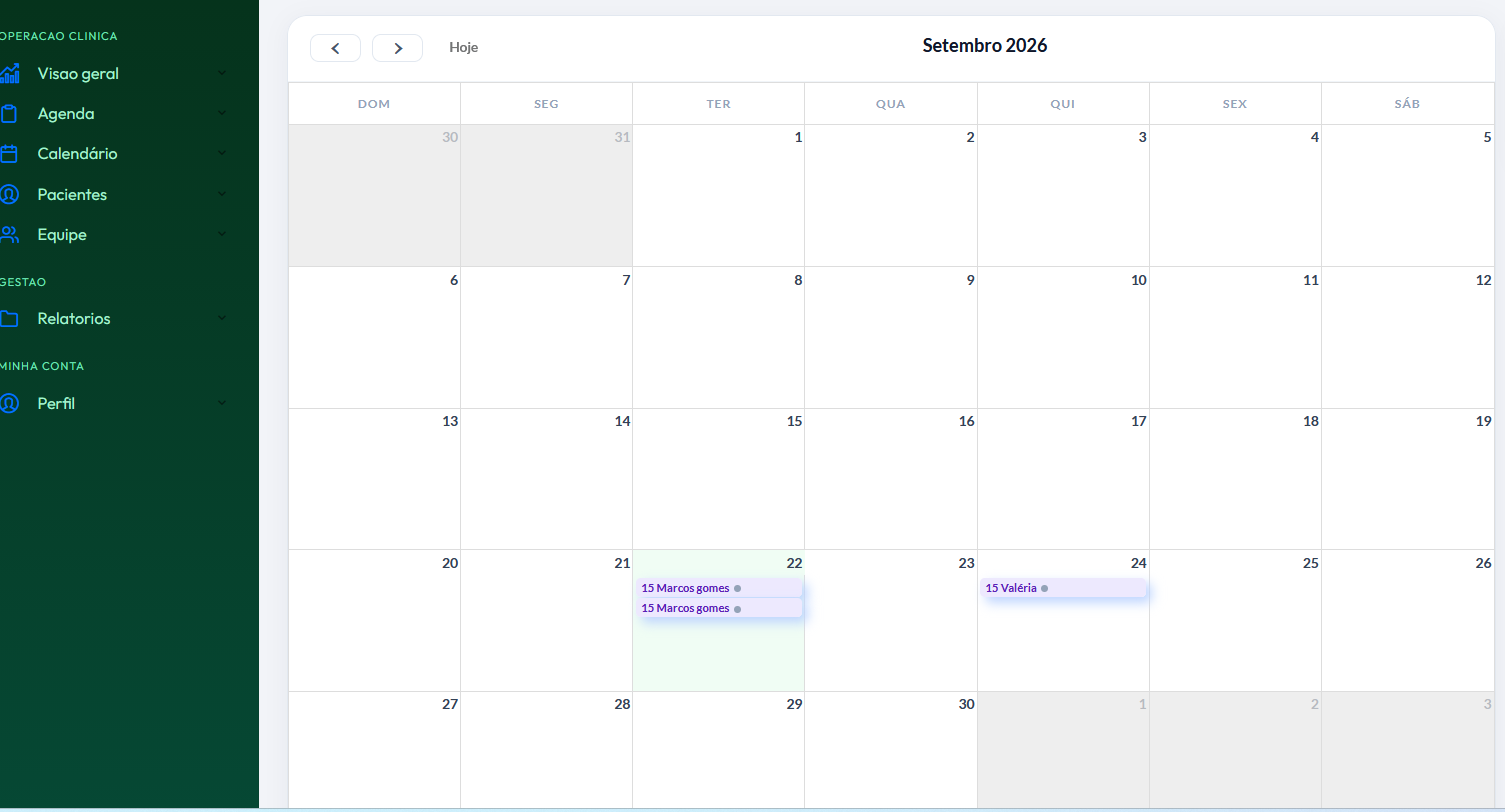
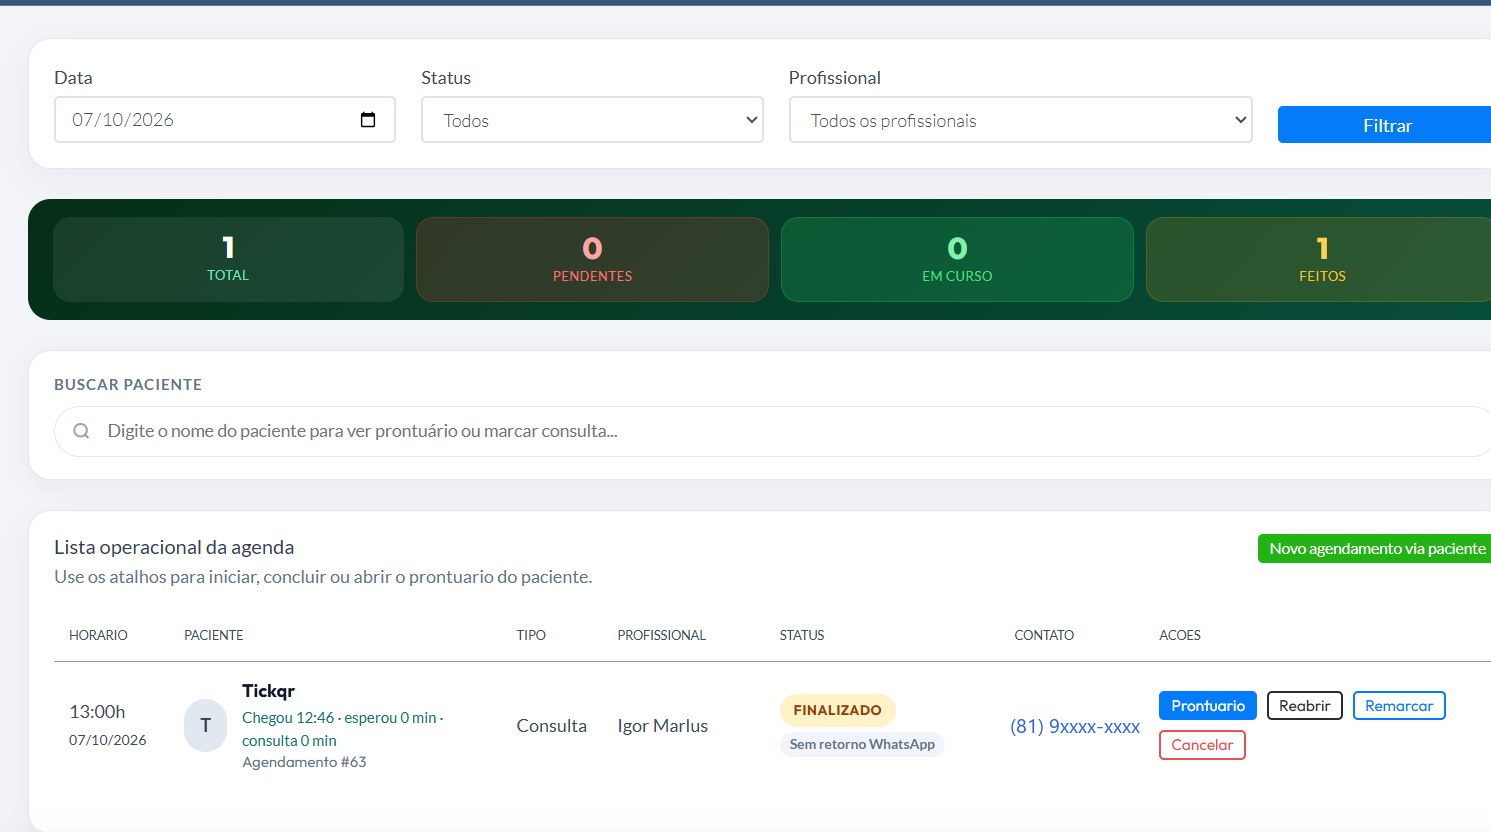
docs(manual): prints da lista de espera, agenda e prontuario atualizados

diff --git a/application/libraries/Manual_conteudo.php b/application/libraries/Manual_conteudo.php
@@ -162,7 +162,7 @@ class Manual_conteudo {
                     3 => array('Recebe os avisos das vagas da sua própria agenda.'),
                     4 => array('Recebe os avisos de vaga da clínica e costuma ser quem faz o encaixe.'),
                 ),
-                'print' => null,
+                'print' => 'lista-espera.png',
                 'atualizado_em' => '2026-10-07',
             ),
             array(

diff --git a/tests/manual_conteudo_test.php b/tests/manual_conteudo_test.php
@@ -96,6 +96,6 @@ assertSameValue(
 $le = null;
 foreach ($nivel4 as $capitulo) { if ($capitulo['slug'] === 'lista-espera') { $le = $capitulo; } }
 assertTrue($le !== null, 'Colaborador (nivel 4) deve ver o capitulo lista-espera.');
-assertSameValue(null, $le['print'], 'Capitulo lista-espera ainda sem print.');
+assertSameValue('lista-espera.png', $le['print'], 'Print do capitulo lista-espera.');
 
 echo "OK\n";

diff --git a/CLAUDE.md b/CLAUDE.md
@@ -611,7 +611,7 @@ Para novas migrações: adicionar método em `Dev.php`, proteger com `nivel == 1
 - [x] Exportar prontuário por paciente (PDF/CSV/XLSX) com período e auditoria — helper `prontuario_export_helper.php`, `Xlsx_simples`, `Prontuario_export_model`. Deploy 2026-10-03: 8 arquivos runtime por FTP, `adm/dev/migrar_prontuario_exportacoes` executada e teste online OK (níveis 3/4). Nota: antes do deploy a view nova já estava no servidor sem o helper (prontuário quebrado em produção) — origem do upload não identificada; ao subir view que depende de helper novo, conferir o servidor antes.
 - [x] Ficha do paciente (pessoal/responsável, saúde básica, convênio) com alergias em destaque no prontuário (`ficha_paciente_helper.php`, `Ficha_paciente_model`). Entrega B (campos configuráveis por clínica) pendente.
 - [x] Tempo de espera: check-in na agenda, horários de início/fim, espera/atraso/duração por atendimento e médias em Relatórios clínicos (`tempo_atendimento_helper.php`)
-- [x] Lista de espera / encaixe: registro de quem quer um horário antes, aviso de vaga no sino quando uma consulta futura é cancelada ou remarcada (agenda, WhatsApp, chatbot) e encaixe com agendamento preenchido — `Lista_espera_model`, `Lista_espera_vagas`, `adm/lista_espera` (ver 7.8). Spec/plano: `docs/superpowers/specs/2026-10-07-lista-espera-design.md`, `docs/superpowers/plans/2026-10-07-lista-espera.md`; texto de negócio: `docs/produto/2026-10-07-lista-espera-como-funciona.md`. Deploy 2026-10-07: código em produção (`956245c`); a extensão FTP Sync tinha subido sozinha 14 dos arquivos mas não model/library/controller/views — o prontuário ficou ~3h dependendo de um model ausente (sem erro registrado no log), corrigido subindo os 5 arquivos e apagando o *arquivo* vazio `application/views/adm/lista_espera`. Migração `adm/dev/migrar_lista_espera` executada e teste online OK em 2026-10-07. **Pendente:** smoke test de cancelamento → aviso → encaixe; prints do manual
+- [x] Lista de espera / encaixe: registro de quem quer um horário antes, aviso de vaga no sino quando uma consulta futura é cancelada ou remarcada (agenda, WhatsApp, chatbot) e encaixe com agendamento preenchido — `Lista_espera_model`, `Lista_espera_vagas`, `adm/lista_espera` (ver 7.8). Spec/plano: `docs/superpowers/specs/2026-10-07-lista-espera-design.md`, `docs/superpowers/plans/2026-10-07-lista-espera.md`; texto de negócio: `docs/produto/2026-10-07-lista-espera-como-funciona.md`. Deploy 2026-10-07: código em produção (`956245c`); a extensão FTP Sync tinha subido sozinha 14 dos arquivos mas não model/library/controller/views — o prontuário ficou ~3h dependendo de um model ausente (sem erro registrado no log), corrigido subindo os 5 arquivos e apagando o *arquivo* vazio `application/views/adm/lista_espera`. Migração `adm/dev/migrar_lista_espera` executada e teste online OK em 2026-10-07. **Pendente:** smoke test de cancelamento → aviso → encaixe
 
 ### 15.2 Próximas Entregas (Prioridade Alta)
 
@@ -825,7 +825,7 @@ nas 3 views, sem mudar controller nem conteúdo):
   `Manual_conteudo::capitulos()` (chave `print`): `boas-vindas`, `agenda`,
   `pacientes-cadastro`, `prontuario`, `exames`, `whatsapp-confirmacao`,
   `whatsapp-lembrete`. Os capítulos sem `print` (acesso, avisos internos,
-  equipe, assinatura, boas práticas) renderizam só com texto. O capítulo `lista-espera` (2026-10-07) ainda está sem print (`'print' => null`), e `agenda.png`, `prontuario.png` e `pacientes-cadastro.png` precisam ser recapturados (são anteriores a Chegou, rótulos, ficha e exportar) — fazer depois que a funcionalidade estiver online. **Ao publicar,
+  equipe, assinatura, boas práticas) renderizam só com texto. Em 2026-10-07 entraram `lista-espera.png` (8ª imagem) e foram regravados `agenda.png` (com Chegou/tempos) e `prontuario.png` (ficha, rótulos, exportar, lista de espera), capturados pelo Igor em produção com paciente de teste e telefone mascarado. `pacientes-cadastro.png` ainda é anterior aos rótulos — recapturar. **Ao publicar,
   enviar também os PNGs** — o PDF embute via `FCPATH` e a tela via
   `base_url()`; se o arquivo não existe no servidor a imagem some sem erro.
 - **Deploy v2 (2026-09-22):** 3 views + `Manual_conteudo.php` + 7 PNGs de
